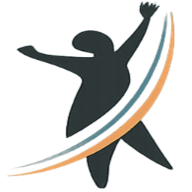
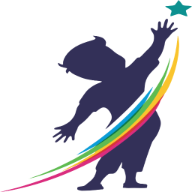
content changes

diff --git a/src/app/components/NBWebsite.tsx b/src/app/components/NBWebsite.tsx
@@ -108,7 +108,7 @@ export const NBWebsite = () => {
       <nav className="sticky top-0 bg-white/80 backdrop-blur-xl border-b border-gray-200/50 z-50">
         <div className="max-w-7xl mx-auto px-4 sm:px-6 lg:px-8 py-4 flex justify-between items-center">
           <Image
-            src="/logo.png"
+            src="/logo1.png"
             alt="Noor-E-Bahali Foundation"
             width={1082}
             height={334}
@@ -405,6 +405,14 @@ export const NBWebsite = () => {
                   <div className="pb-4 sm:pb-6 border-b border-gray-200/80">
                     <p className="text-teal-500 text-xs sm:text-sm font-semibold uppercase tracking-wide">Bank Name</p>
                     <p className="text-lg sm:text-xl font-semibold text-gray-700">Faysal Bank</p>
+                  </div>
+                  <div className="pb-4 sm:pb-6 border-b border-gray-200/80">
+                    <p className="text-teal-500 text-xs sm:text-sm font-semibold uppercase tracking-wide">
+                      Account Title
+                    </p>
+                    <p className="text-lg sm:text-xl font-mono font-semibold break-all text-gray-700">
+                      NOOR-E-BAHALI FOUNDATION
+                    </p>
                   </div>
                   <div className="pb-4 sm:pb-6 border-b border-gray-200/80">
                     <p className="text-teal-500 text-xs sm:text-sm font-semibold uppercase tracking-wide">

diff --git a/src/app/components/CertificatesSection.tsx b/src/app/components/CertificatesSection.tsx
@@ -28,8 +28,8 @@ export const CertificatesSection = () => {
 
           <div className="grid md:grid-cols-2 gap-8">
             {[
-              { title: "SECP Registration Certificate", image: "/certificate1.webp" },
-              { title: "NGO License Document", image: "/certificate2.webp" },
+              { title: "SECP NGO License", image: "/certificate1.webp" },
+              { title: "FBR Tax Certificate", image: "/certificate2.webp" },
             ].map((cert, i) => (
               <div key={i} onClick={() => setSelectedImage(cert.image)} className="group relative cursor-pointer">
                 <div className="absolute inset-0 bg-linear-to-br from-gray-500/20 to-teal-500/20 rounded-3xl opacity-0 group-hover:opacity-100 transition duration-300 blur-xl"></div>

diff --git a/src/app/layout.tsx b/src/app/layout.tsx
@@ -28,7 +28,7 @@ export default function RootLayout({
     name: "Noor-E-Bahali Foundation",
     description: "SECP-registered NGO providing rehabilitation and humanitarian support",
     url: "https://noorebahali.org",
-    logo: "https://noorebahali.org/logo.png",
+    logo: "https://noorebahali.org/logo1.png",
     contact: {
       "@type": "ContactPoint",
       contactType: "Customer Service",
